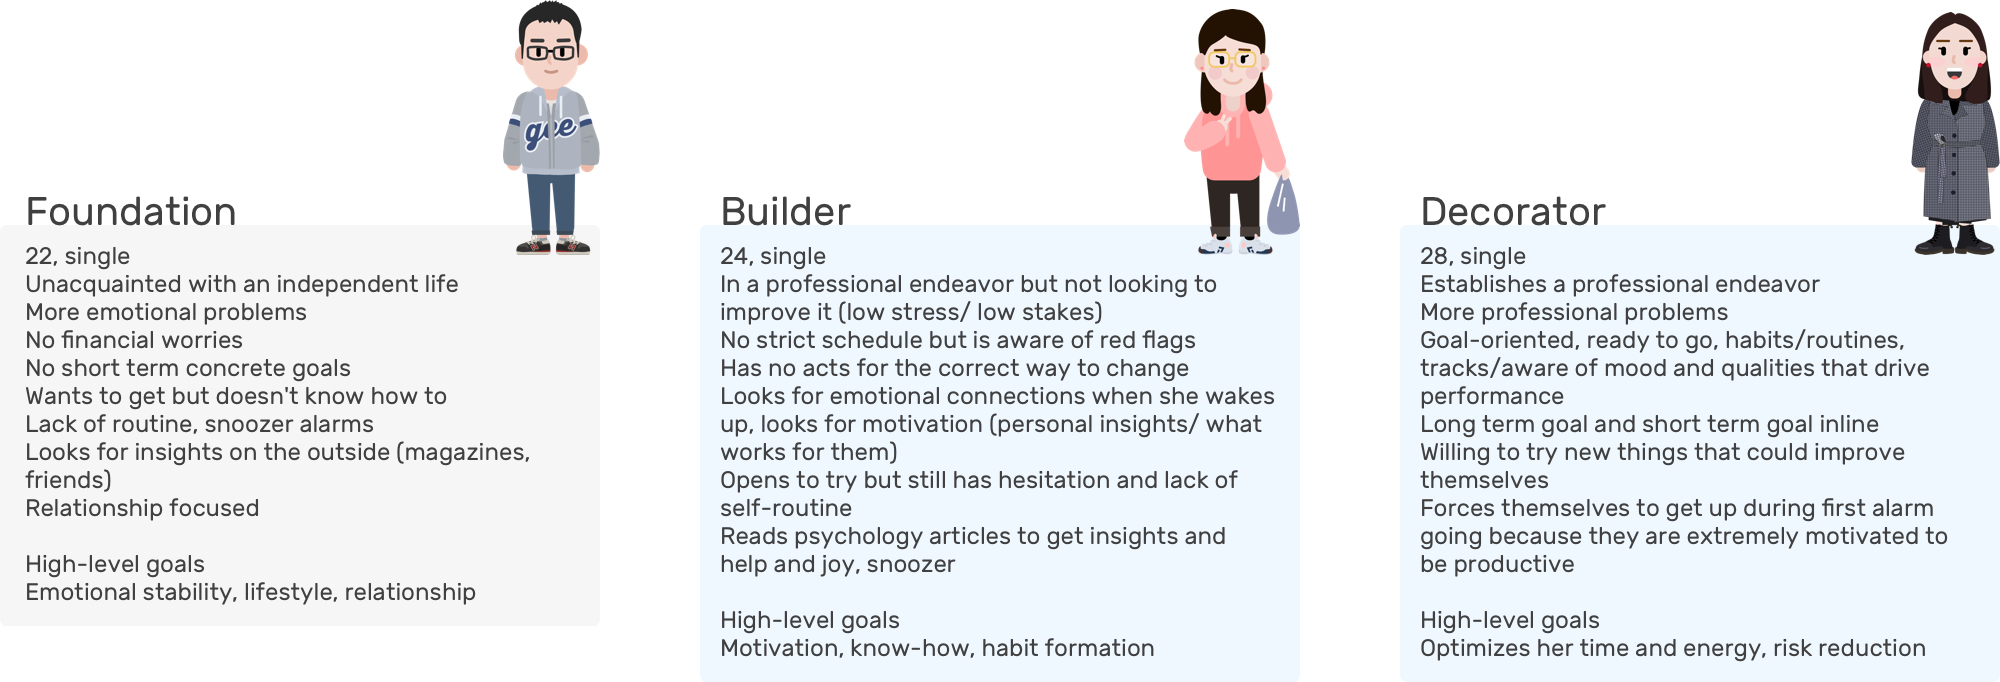
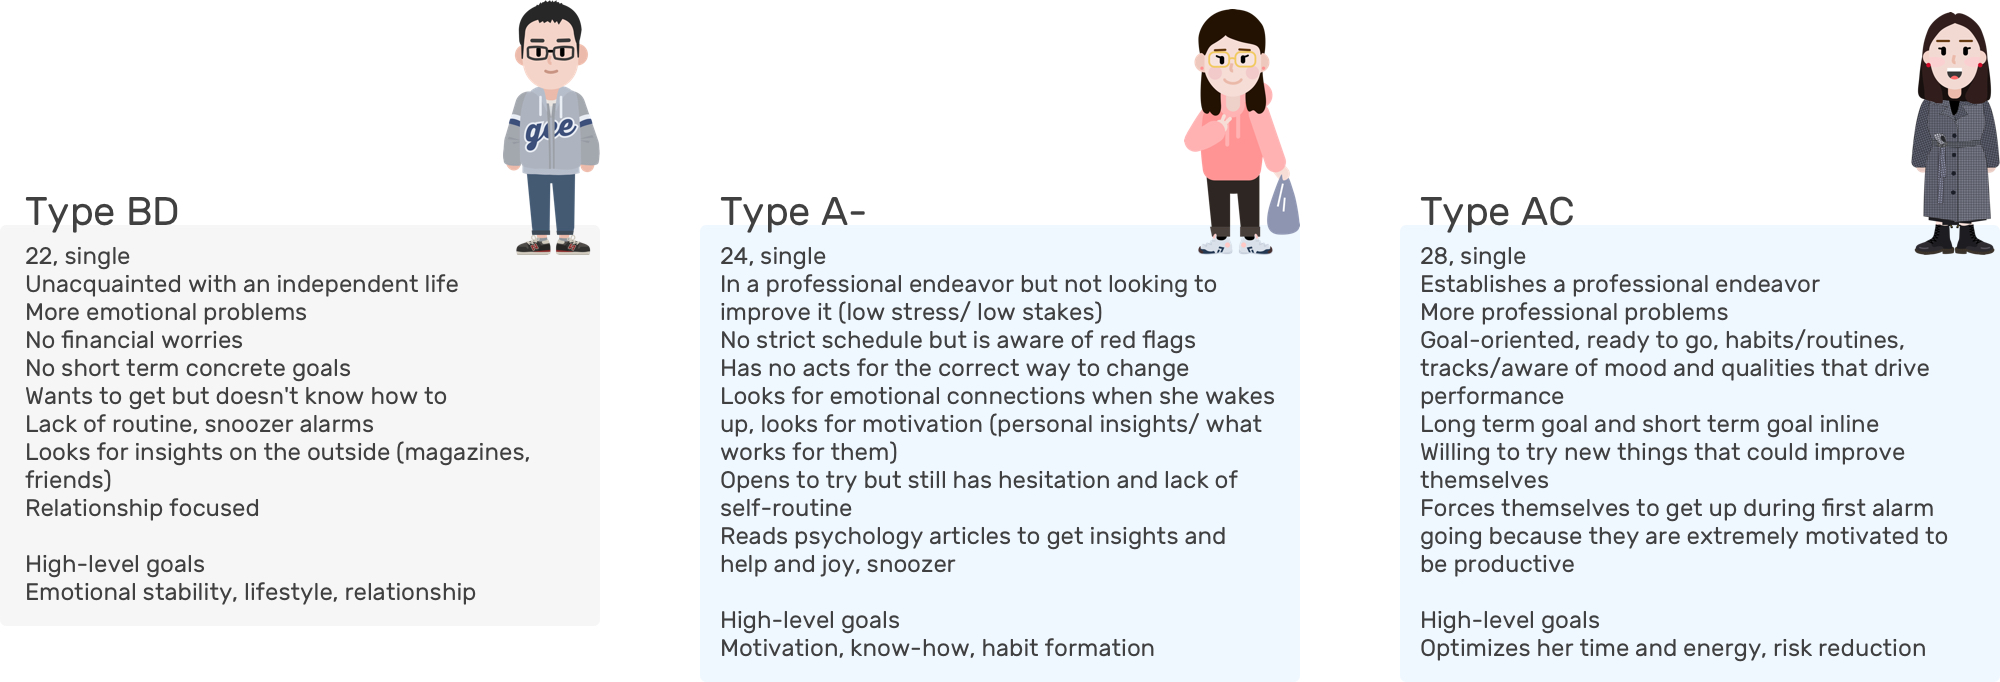
ac

Changed region(s): [[0.0, 0.2771, 0.124, 0.3387], [0.713, 0.2771, 0.806, 0.3387], [0.341, 0.2771, 0.434, 0.3387]]

diff --git a/coucou.html b/coucou.html
@@ -187,12 +187,12 @@ span {background-color: #F0F8FF}
 		<p>Lux's initial target user group is anyone <span>who needs to wake up at a certain time and be highly functional—and wants to feel good while doing so</span>. Their first target market was <span>millennials</span>, the most recent generation to join the workforce and <span>the largest consumers of wellness products and services</span>. These are individuals who desire to prove themselves professionally and personally without compromising on their health.</p>
 		<h5>Research Findings</h5>
 		<h3>User Groups</h3>
-		<p>We synthesized from research and defined 3 different groups, <br>"foundations" who rarely have initiatives to optimize themselves, <br>"builders" who have a goal or an ideal routine want to build but lack of insistence, <br>and "decorators" who have already been doing some excellent daily routines but still want to consolidate or upgrade them. </p>
+		<p>We synthesized from research and defined 3 different groups, <br>"Type BD" who rarely have initiatives to optimize themselves, <br>"Type A-" who have a goal or an ideal routine want to build but lack of insistence, <br>and "Type AC" who have already been doing some excellent daily routines but still want to consolidate or upgrade them. </p>
 			
 			 
 
 			<img src="img/coucou/images/B2.jpg" width="100%" height="100%">
-			<h3>We put design focus on Decorators and Builders.</h3>
+			<h3>We put design focus on "Type AC" and "Type A-".</h3>
 			<h5>Obstacles</h5>
 			     		
 			     		<img src="img/coucou/images/B5.jpg" width="100%" height="100%">
@@ -253,8 +253,7 @@ span {background-color: #F0F8FF}
 	border-color: #191970;">
 			<h3 style="font-size:20px;color:#fff;margin-left: 40px; margin-right: 40px;">
 				High Level Problem<br><br>
-Actions users take to optimize their circle are not giving actionable feedback.
-
+Optimization of the morning and pre-bed routines are not bringing recognizable positive feedback to people. 
 
 
 			<br><br></h3>
@@ -274,7 +273,7 @@ Actions users take to optimize their circle are not giving actionable feedback.
 <h2>Persona</h2>
 <img src="img/coucou/images/C1.jpg" width="100%">
 <br><br>
-<p>"Decorators" and some "builders" acknowledge sleep could help to improve performance and productivity. They are spending money on productivity and wellness products, having a clear division of time use, cutting phone usage at bed time, doing their ingrained routines and look for perfect. 
+<p>"Type AC" and some "Type A-" acknowledge sleep could help to improve performance and productivity. They are spending money on productivity and wellness products, having a clear division of time use, cutting phone usage at bed time, doing their ingrained routines and look for perfect. 
 </p>
 
 <h2>Journey and Problems</h2>
